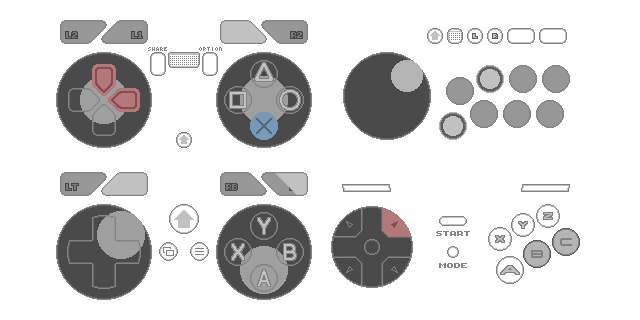
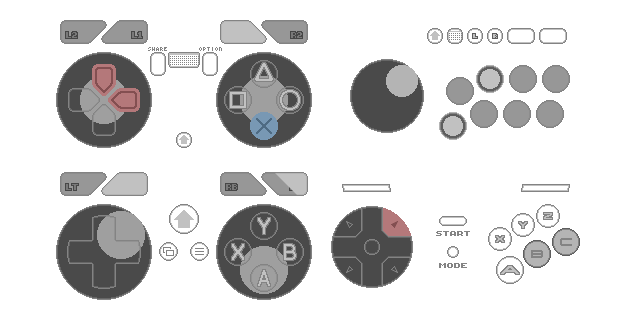
decrease stick area size of joystick skins

Changed region(s): [[0.5312, 0.1562, 0.6875, 0.4375]]

diff --git a/index.html b/index.html
@@ -465,7 +465,7 @@
 
 <!-- updater -->
 <script>
-  const version = '3.7.0'
+  const version = '3.7.1'
   const MPUpdater = new MiniPadderUpdater(version)
   const versionDoms = document.getElementsByClassName('version')
   Array.from(versionDoms).forEach(v => v.innerHTML = version)
